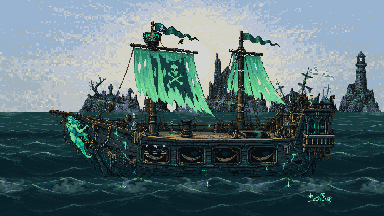
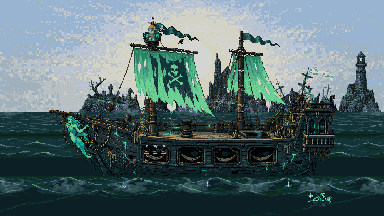
Integrate revised deep sea and preserve merged crew settings

diff --git a/docs/settings/ghost-ship/fixes.md b/docs/settings/ghost-ship/fixes.md
@@ -2,20 +2,22 @@
 
 The captain removed the underwater cutaway from the approved design. `underwater.png`, the flat
 `deep-water.png`, all eight jellyfish sprites and the obsolete water frames are removed. The fit is
-now −8…520 instead of −8…600. Cast, actor height, crew posts and departure choreography are unchanged.
+now −8…520 instead of −8…600. The enlarged cast, actor height 66 and crew posts from PR #106 are
+preserved, as is departure choreography. The authoring recipe retains those merged crew settings.
 
-The commissioned sea atlases from `df3469c2023013297838e5355e9aef340f91b49a` are registered byte-for-byte.
+The commissioned sea atlases from `df3469c2023013297838e5355e9aef340f91b49a`, with the revised deep
+pair from `b273ab75bd651bb2cb1f6af1afb08de50a65e873`, are registered byte-for-byte.
 The deep surface uses one tile origin at row 265 for both the background and the foreground from row
 448. The far, middle and near strips sit at rows 265, 326 and 428. Their 16 frames run at 200 ms each;
-the deep field's eight frames run at 400 ms. A separate sea clock speeds these by 1.25 at peak storm,
+the deep field's four 768×512 frames run at 800 ms. A separate sea clock speeds these by 1.25 at peak storm,
 giving the artist's 2.56-second storm loop without accelerating rain or carrier motion again. Calm
 drift is 0.4/0.75/1.0/0.6 pixels per second for far/middle/near/deep. The inherited whole-pixel scroll
 and renderer remain unchanged. Still/reduced motion holds frame zero.
 
-**Visual review is pending an artist revision of the deep field.** Native tall-pane captures expose
-the 96-row repeating motif and faint joins every 384 columns. These are also visible in the artist's
-repeat proof. There is no transparent gap or separate flat fill at the hull. Numeric edge contrast
-alone does not catch the visible pattern. The eight delivered atlases have not been edited.
+Native tall-pane review found the first deep field's 96-row repeating motif and faint joins every
+384 columns. The artist replaced it with broad, sparse swells in larger cells. The revised day,
+night and storm captures have no visible tile boxes or seams. There is no transparent gap or
+separate flat fill at the hull. The eight delivered atlases have not been edited.
 
 The old water was the same noisy texture shifted roughly three pixels per frame, then reset by
 roughly nine pixels at its four-frame loop. That stepped motion opposed its slow horizontal drift.
@@ -40,21 +42,22 @@ Review evidence is excluded from git. The review copy is at:
 
 - `before/`: original day/night/storm views and bottom crops at wide, square and tall-narrow sizes;
   native-resolution calm/storm water clips.
-- `water-integrated/`: corresponding commissioned-water views and clips.
-- `new-water/`: near-1:1 art-pixel tall-pane renders exposing the deep-field issue.
-- `motion-before/`, `motion-after/`: storm crow's-nest and rain detail clips.
-- `integrated/`: the six-phase/aspect overlays, 24-crew checks in all four states, exact focus
+- `final-water/`: corresponding final-water views, bottom crops and native-size water clips.
+- `final-native/`: near-1:1 art-pixel tall-pane renders of the revised deep field.
+- `motion-before/`, `final-motion/`: storm crow's-nest and rain detail clips.
+- `final/`: the six-phase/aspect overlays, 24-crew checks in all four states, exact focus
   receipts, arrival/lookout, anglerfish, plank/kraken, peak storm and reduced-motion evidence.
 
-The pack uses **973,707 image bytes** of the 1,000,000-byte cap, before any further artist revision.
+The final payload is **971,510 image bytes**, leaving **28,490 bytes** below the 1,000,000-byte cap,
+including the updated picker preview. It is recorded in `final/weather-audit.json`.
 All generated captures and logs stay under `.local/` before copying to the review folder.
 
-Local validation: pack lint 85/85; typecheck passed; full suite 1,204 passed and 3 skipped across
-102 files; Hermes parsed both client bundles; the frozen Ship gate was 81/81 pixel-identical.
+Local validation: pack lint 85/85; typecheck passed; full suite 1,226 passed and 3 skipped across
+104 files with `--testTimeout=30000 --maxWorkers=2` to accommodate host load. Hermes parsed both
+client bundles; the frozen Ship gate and visual results are recorded alongside the evidence.
 The phase/shape matrix produced 42 scene/overlay captures. Full/lite/still checks and 96 exact crew
 focus clicks passed. Frame zero of the basket/flag composite is pixel-identical to the original,
-and all eight commissioned water atlases are byte-identical to the artist's commit. These checks
-do not override the pending deep-field visual correction. PR/CI completion follows that revision.
+and all eight commissioned water atlases are byte-identical to the artist's respective commits.
 
 ```powershell
 npm.cmd ci
@@ -62,9 +65,9 @@ npm.cmd ci --prefix docs/board-list
 npm.cmd install --prefix .local/tools --no-audit --no-fund gifenc omggif
 node docs/settings/ghost-ship/fix-motion.mjs
 node docs/settings/ghost-ship/build-pack.mjs
-npm.cmd run lint:deck-packs -- --maxWorkers=1
+npm.cmd run lint:deck-packs -- --testTimeout=30000 --maxWorkers=2
 node docs/ship-deck-canvas/compile.mjs
-$env:GHOST_EVIDENCE='.local/ghost-ship-fixes/integrated'
+$env:GHOST_EVIDENCE='.local/ghost-ship-fixes/final'
 node docs/settings/ghost-ship/render.mjs
 $env:GHOST_REVIEW='matrix'; node docs/settings/ghost-ship/render.mjs
 Remove-Item Env:GHOST_REVIEW
@@ -75,7 +78,7 @@ node docs/settings/ghost-ship/audit-art.mjs
 node docs/settings/ghost-ship/audit-weather.mjs
 node docs/deck-settings/gate.mjs
 npm.cmd run typecheck
-npm.cmd test -- --maxWorkers=1
+npm.cmd test -- --testTimeout=30000 --maxWorkers=2
 ```
 
 The renderer tests use real compiled client code and synthetic host data. The installed plugin was

diff --git a/README.md b/README.md
@@ -89,12 +89,9 @@ saves one choice for the whole fleet, also available in settings.
 - **Watch the scene change.** Local time drives day and night. Sails, water, clouds and crew animate;
   Ship's deck grows stormier as the fleet gets busy. Reduced motion keeps the scene calm, and hidden
   canvases pause.
-<<<<<<< HEAD
   Pirate voyage and Sakura coast rain advances downward in a seamless loop as storms build.
-=======
   Ghost ship keeps its haunted sea at the surface, with a half-submerged anglerfish, falling storm
   rain and a crow's nest that moves rigidly with the mast.
->>>>>>> b4b430d (Remove Ghost cutaway, register sea art and correct rain and mast motion)
 
 Click the shark, choose a suggestion, and the prompt arrives in Home chat:
 
